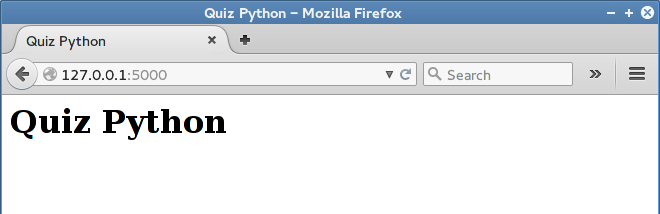
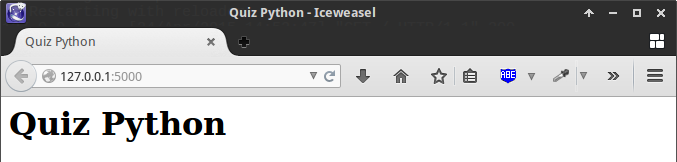
Poprawki poprawki ;-) scenariusza Quiz - przegląd zrzutów i kodów

diff --git a/docs/webapps/quiz/quiz5.py b/docs/webapps/quiz/quiz5.py
@@ -1,14 +1,12 @@
 # -*- coding: utf-8 -*-
+# quiz/quiz.py
 
-# niezbędne importy
 from flask import Flask
 from flask import render_template
 
 app = Flask(__name__)
 
-# konfiguracja aplikacji
 app.config.update(dict(
-    # nieznany nikomu sekret
     SECRET_KEY='bradzosekretnawartosc',
 ))
 
@@ -47,6 +45,7 @@ def index():
         flash(u'Liczba poprawnych odpowiedzi, to: {0}'.format(punkty))
         return redirect(url_for('index'))
 
+    #return 'Cześć, tu Python!'
     return render_template('index.html', pytania=PYTANIA)
 
 if __name__ == '__main__':

diff --git a/docs/webapps/quiz/quiz3.py b/docs/webapps/quiz/quiz3.py
@@ -1,12 +1,11 @@
 # -*- coding: utf-8 -*-
-# quiz/quiz3.py
+# quiz/quiz.py
 
 from flask import Flask
 from flask import render_template
 
 app = Flask(__name__)
 
-# dekorator łączący adres główny z widokiem index
 @app.route('/')
 def index():
     #return 'Cześć, tu Python!'

diff --git a/docs/webapps/quiz/quiz2.py b/docs/webapps/quiz/quiz2.py
@@ -1,11 +1,10 @@
 # -*- coding: utf-8 -*-
-# quiz/quiz2.py
+# quiz/quiz.py
 
 from flask import Flask
 
 app = Flask(__name__)
 
-# dekorator łączący adres główny z widokiem index
 @app.route('/')
 def index():
     return 'Cześć, tu Python!'

diff --git a/docs/webapps/quiz/quiz4.py b/docs/webapps/quiz/quiz4.py
@@ -1,5 +1,5 @@
 # -*- coding: utf-8 -*-
-# quiz/quiz4.py
+# quiz/quiz.py
 
 from flask import Flask
 from flask import render_template

diff --git a/docs/webapps/quiz/quiz1.py b/docs/webapps/quiz/quiz1.py
@@ -1,5 +1,5 @@
 # -*- coding: utf-8 -*-
-# quiz/quiz1.py
+# quiz/quiz.py
 
 from flask import Flask
 

diff --git a/docs/webapps/quiz/index.rst b/docs/webapps/quiz/index.rst
@@ -51,6 +51,8 @@ Po wpisaniu go do przeglądarki internetowej otrzymamy stronę z błędem HTTP 4
 co wynika z faktu, że nasza aplikacja nie ma jeszcze zdefiniowanego żadnego zachowania
 (czy też widoku) dla tego adresu.
 
+.. figure:: img/quiz1.png
+
 Widok (strona główna)
 *********************
 
@@ -84,10 +86,12 @@ Najprostszą odpowiedzią na żądanie GET jest zwrócenie jakiegoś tekstu.
 Tak też robimy wywołując funkcję ``return 'Cześć, tu Python!'``, która odeśle
 podany tekst do przeglądarki, a ta wyświetli go użytkownikowi.
 
+.. figure:: img/quiz2.png
+
 Zazwyczaj będziemy prezentować bardziej skomplikowane dane, w dodatku
 sformatowane wizualnie. Potrzebujemy więc szablonu.
 Tworzymy więc plik :file:`~/quiz/templates/index.html`.
-Można to zrobić w terminalu:
+Można to zrobić w terminalu po ewentualnym zatrzymaniu serwera (CTRL+C):
 
 .. raw:: html
 
@@ -95,7 +99,7 @@ Można to zrobić w terminalu:
 
 .. code-block:: bash
 
-    ~/quiz$ mkdir templates; cd templates; touch index.html
+    ~/quiz$ mkdir templates; touch templates/index.html
 
 Jak widać szablony umieszczamy w podkatalogu :file:`tempaltes` aplikacji.
 Do pliku :file:`index.html` wstawiamy poniższy kod HTML:
@@ -117,7 +121,7 @@ Na koniec modyfikujemy widok ``index()``:
 .. highlight:: python
 .. literalinclude:: quiz3.py
     :linenos:
-    :emphasize-lines: 5, 12-13
+    :emphasize-lines: 5, 11-12
 
 Po zaimportowaniu (!) potrzebnej funkcji używamy jej do wyrenderowania
 podanego jako argument szablonu: ``return render_template('index.html')``.
@@ -195,8 +199,8 @@ w funkcji ``index()``. Uzupełniamy więc plik :file:`quiz.py`:
 .. highlight:: python
 .. literalinclude:: quiz5.py
     :linenos:
-    :lineno-start: 34
-    :lines: 34-50
+    :lineno-start: 32
+    :lines: 32-49
 
 Przede wszystkim importujemy potrzebne funkcje. Następnie
 uzupełniamy dekorator ``app.route()``, aby obsługiwał zarówno żądania :term:`GET`
